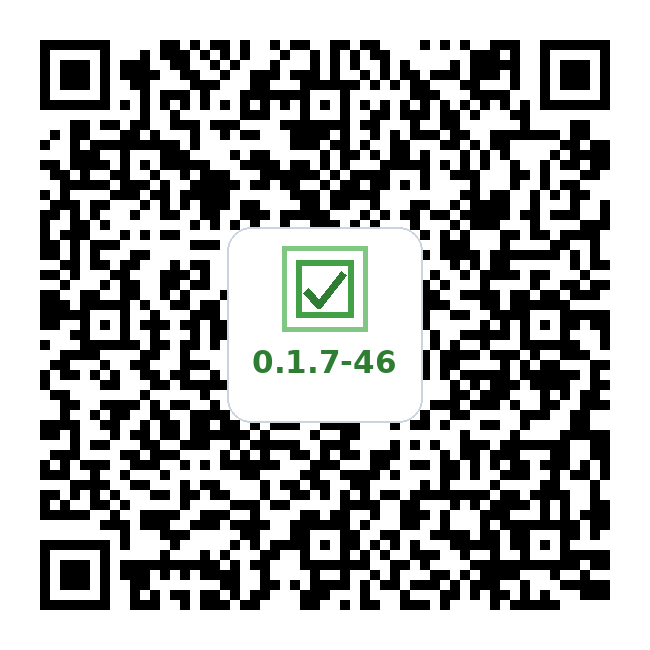
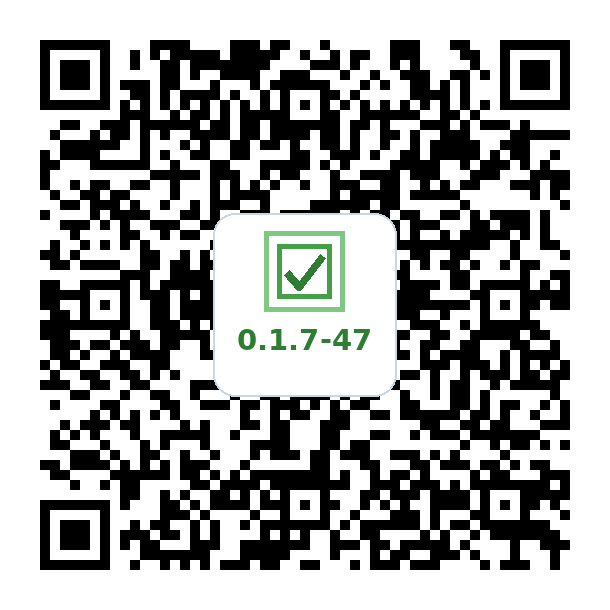
deploy: c92346024532cb46bf27111314b5a8af38b7f9f1

diff --git a/index.html b/index.html
@@ -209,11 +209,11 @@
           </div>
             <div class="qr-container">
             <div class="qr-label">background-tasking</div>
-            <img src="qr.png" alt="MicroTasking APK QR Code (v0.1.7-46)">
+            <img src="qr.png" alt="MicroTasking APK QR Code (v0.1.7-47)">
             <br>
-            <a href="https://github.com/vemcg/MicroTasking/releases/download/dev-background-tasking/MicroTasking-dev-background-tasking.apk" class="btn" target="_blank" rel="noopener">Download MicroTasking APK (v0.1.7-46)</a>
+            <a href="https://github.com/vemcg/MicroTasking/releases/download/v0.1.7-47/MicroTasking-v0.1.7-47.apk" class="btn" target="_blank" rel="noopener">Download MicroTasking APK (v0.1.7-47)</a>
             <br>
-            <a href="https://github.com/vemcg/MicroTasking/releases/download/dev-background-tasking/MicroTasking-dev-background-tasking.apk" target="_blank" rel="noopener">Open the download again</a>
+            <a href="https://github.com/vemcg/MicroTasking/releases/download/v0.1.7-47/MicroTasking-v0.1.7-47.apk" target="_blank" rel="noopener">Open the download again</a>
           </div>
           </div>
         </li>
